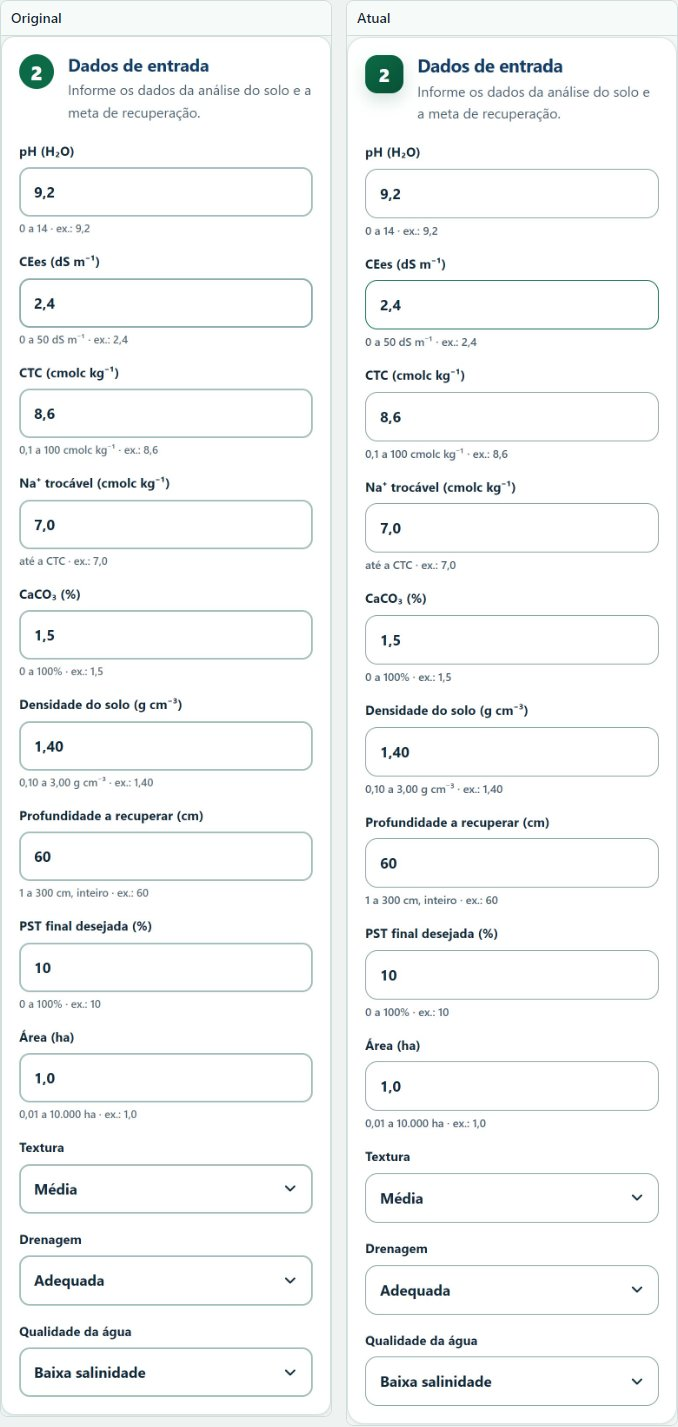
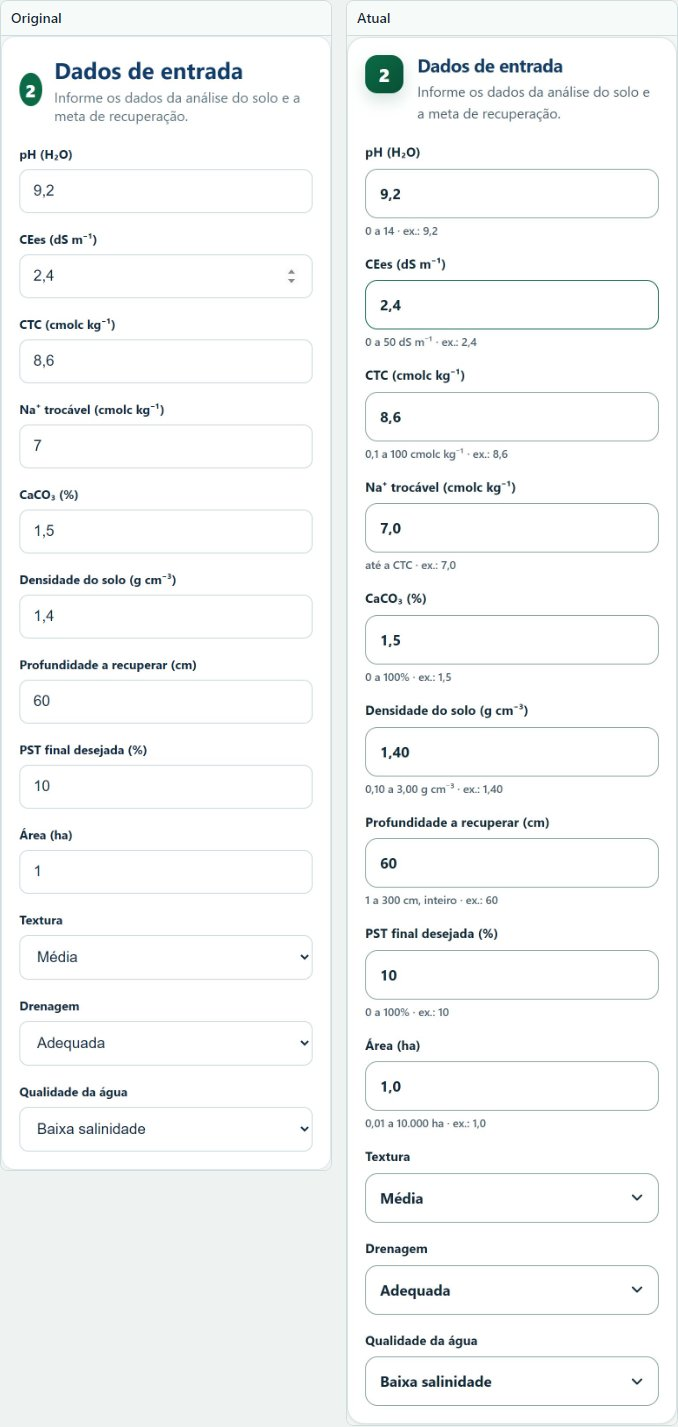
Comparações refeitas contra o site original do Netlify
O original passa a ser preservado em original/. O conteúdo de MODERNIZACAO.md foi incorporado ao COMPARACAO.md.

diff --git a/original/script.js b/original/script.js
@@ -1,0 +1,21 @@
+const amendments=[
+ {name:'Gesso agrícola (CaSO₄·2H₂O)',pe:86,c:1.25,type:'direct',examplePurity:80},
+ {name:'Cloreto de cálcio (CaCl₂·2H₂O)',pe:73,c:1.10,type:'direct'},
+ {name:'Enxofre elementar (S)',pe:16,c:1.25,type:'acid',examplePurity:95},
+ {name:'Ácido sulfúrico (H₂SO₄)',pe:49,c:1.10,type:'acid'},
+ {name:'Sulfato de ferro (FeSO₄·7H₂O)',pe:139,c:1.10,type:'acid'},
+ {name:'Sulfato de alumínio (Al₂(SO₄)₃·18H₂O)',pe:111,c:1.10,type:'acid'},
+ {name:'Calcário (CaCO₃)',pe:50,c:1.25,type:'low'},
+ {name:'Resíduo de engenho',pe:20,c:1.25,type:'low'}
+];
+const $=id=>document.getElementById(id); const num=id=>{const e=$(id); if(!e)return NaN; const v=e.value.trim().replace(',','.');return v===''?NaN:Number(v)};
+const fmt=(x,d=2)=>Number(x).toLocaleString('pt-BR',{minimumFractionDigits:d,maximumFractionDigits:d}); const money=x=>'R$ '+Number(x).toLocaleString('pt-BR',{minimumFractionDigits:2,maximumFractionDigits:2});
+function renderAmendments(){ $('amendGrid').innerHTML=amendments.map((a,i)=>`<article class="amend-card"><div class="amend-head"><input class="amend-check" id="use${i}" type="checkbox"><div><h3>${a.name}</h3><small>PE = ${a.pe} • C = ${String(a.c).replace('.',',')}</small></div></div><div class="two"><label>Pureza (%)<input id="purity${i}" type="number" step="0.1" placeholder="Informe"></label><label>Preço (R$/t)<input id="price${i}" type="number" step="0.01" placeholder="Informe"></label></div></article>`).join(''); }
+renderAmendments();
+function setVal(id,v){$(id).value=v??''} function clearInputs(){['ph','ce','ctc','na','caco3','ds','h','pstf','area'].forEach(id=>setVal(id,'')); ['texture','drain','water'].forEach(id=>$(id).selectedIndex=0); amendments.forEach((a,i)=>{setVal('purity'+i,'');setVal('price'+i,'');$('use'+i).checked=false}); $('results').classList.add('hidden');}
+$('exampleMode').onclick=()=>{clearInputs(); const vals={ph:9.2,ce:2.4,ctc:8.6,na:7,caco3:1.5,ds:1.4,h:60,pstf:10,area:1}; Object.entries(vals).forEach(([k,v])=>setVal(k,v)); $('texture').value='Média';$('drain').value='Adequada';$('water').value='Baixa salinidade'; setVal('purity0',80);setVal('purity2',95);$('use0').checked=true;$('use2').checked=true; $('modeNote').innerHTML='<b>Modo exemplo:</b> dados do exercício carregados. Gesso e enxofre estão selecionados; informe apenas os preços de mercado (R$/t).';};
+$('customMode').onclick=()=>{clearInputs();$('modeNote').innerHTML='<b>Nova análise:</b> informe seus dados e selecione um ou mais corretivos. Pureza e preço são editáveis.';};
+function suitability(a,ph,caco3){ if(a.type==='direct')return{label:'Potencialmente adequado',ok:true,note:'Fornece Ca²⁺ diretamente para substituir Na⁺ no complexo de troca.'}; if(a.type==='acid'){if(caco3>0)return{label:'Adequado com carbonatos',ok:true,note:'A acidez gerada favorece a dissolução de carbonatos e a disponibilização de Ca²⁺.'};return{label:'Uso com cautela',ok:false,note:'Sem carbonatos alcalino-terrosos, requer avaliação específica devido ao risco de acidificação.'};} if(a.type==='low'){if(ph<7.5&&caco3<=0)return{label:'Pode ser considerado',ok:true,note:'Fonte de Ca de baixa solubilidade, mais indicada em condições específicas de pH e ausência de carbonatos.'};return{label:'Baixa prioridade',ok:false,note:'A baixa solubilidade limita sua eficiência nas condições informadas.'};}}
+function validate(){const req=[['ph','pH'],['ce','CEes'],['ctc','CTC'],['na','Na⁺ trocável'],['caco3','CaCO₃'],['ds','densidade'],['h','profundidade'],['pstf','PST final'],['area','área']];for(const [id,n] of req){if(!Number.isFinite(num(id))){alert(`Informe ${n}.`);$(id).focus();return false}} if(num('ctc')<=0||num('ds')<=0||num('h')<=0||num('area')<=0){alert('CTC, densidade, profundidade e área devem ser maiores que zero.');return false} if(num('na')>num('ctc')){alert('O Na⁺ trocável não pode ser maior que a CTC.');return false} if(!amendments.some((a,i)=>$('use'+i).checked)){alert('Selecione pelo menos um corretivo.');return false} return true;}
+$('calc').onclick=()=>{if(!validate())return; const ph=num('ph'),ce=num('ce'),ctc=num('ctc'),na=num('na'),caco3=num('caco3'),ds=num('ds'),h=num('h'),pstf=num('pstf'),area=num('area'); const psti=na/ctc*100,delta=Math.max(0,psti-pstf); const sodic=psti>=15,saline=ce>=4; const cls=sodic?(saline?'salino-sódico':'sódico'):(saline?'salino':'não sódico pelos critérios informados'); $('diagnosis').innerHTML=`<div class="metric"><b>${fmt(psti)}%</b><span>PST inicial calculada</span></div><p><b>Classificação:</b> ${cls}.</p><p><b>Meta:</b> PST ${fmt(pstf)}% na camada de ${fmt(h,0)} cm.</p>`; const out=$('out').querySelector('tbody');out.innerHTML='';let candidates=[]; amendments.forEach((a,i)=>{if(!$('use'+i).checked)return; const purity=num('purity'+i),price=num('price'+i),fit=suitability(a,ph,caco3); const dt=delta*ctc*a.pe*h*ds/100,dp=dt*a.c,dc=Number.isFinite(purity)&&purity>0?dp/(purity/100):NaN,cost=Number.isFinite(dc)&&Number.isFinite(price)&&price>=0?dc/1000*price:NaN,total=Number.isFinite(cost)?cost*area:NaN; if(fit.ok&&Number.isFinite(cost)&&price>0)candidates.push({a,cost,total,dc,fit}); out.insertAdjacentHTML('beforeend',`<tr><td><b>${a.name}</b></td><td class="${fit.ok?'good':'warn'}">${fit.label}</td><td>${fmt(dt)} kg/ha</td><td>${fmt(dp)} kg/ha</td><td>${Number.isFinite(dc)?fmt(dc)+' kg/ha':'Informe pureza'}</td><td>${Number.isFinite(cost)?money(cost):'Informe preço'}</td><td>${Number.isFinite(total)?money(total):'—'}</td></tr>`)}); candidates.sort((a,b)=>a.cost-b.cost);const best=candidates[0]; $('best').innerHTML=best?`<strong>Menor custo entre as alternativas tecnicamente adequadas:</strong> ${best.a.name} — <b>${money(best.cost)}/ha</b> (${money(best.total)} para ${fmt(area)} ha).`:'Informe pureza e preço dos corretivos selecionados para realizar a comparação econômica.'; $('recommendation').innerHTML=amendments.map((a,i)=>$('use'+i).checked?`<p><b>${a.name}:</b> ${suitability(a,ph,caco3).note}</p>`:'').join(''); const chosen=best?.a.name||'o corretivo tecnicamente selecionado'; $('procedure').innerHTML=`<ol><li>Confirmar a análise do solo, profundidade efetiva e condição de drenagem.</li><li>Aplicar <b>${chosen}</b> conforme a dose comercial calculada e a forma tecnicamente recomendada.</li><li>Promover a substituição do Na⁺ trocável por Ca²⁺.</li><li>Realizar lixiviação do Na⁺ deslocado com água adequada.</li><li>Garantir drenagem para retirada da solução salina da zona radicular.</li><li>Monitorar PST, CEes, pH e propriedades físicas do solo.</li></ol>`; $('results').classList.remove('hidden');$('results').scrollIntoView({behavior:'smooth',block:'start'});};
+$('clear').onclick=()=>{clearInputs();$('modeNote').textContent='Nenhum modo selecionado.';window.scrollTo({top:0,behavior:'smooth'});};

diff --git a/original/style.css b/original/style.css
@@ -1,0 +1,2 @@
+:root{--green:#0c6b46;--green2:#16865a;--brown:#9a531e;--navy:#123d68;--ink:#102b3e;--muted:#607483;--line:#dce6e8;--bg:#f5f8f7;--soft:#edf6f1;--warn:#a65b1f}*{box-sizing:border-box}body{margin:0;font-family:Inter,ui-sans-serif,system-ui,-apple-system,"Segoe UI",Arial,sans-serif;background:var(--bg);color:var(--ink)}.topbar{background:#fff;border-bottom:1px solid var(--line);padding:20px clamp(20px,4vw,64px);display:flex;justify-content:space-between;align-items:center;gap:24px}.brand{display:flex;align-items:center;gap:16px}.logo{width:62px;height:62px;border-radius:18px;background:#f1f5ed;display:grid;place-items:center}.logo svg{width:44px;height:44px}.leaf{fill:none;stroke:var(--green2);stroke-width:5;stroke-linecap:round;stroke-linejoin:round}.soil{fill:none;stroke:var(--brown);stroke-width:4;stroke-linecap:round}.brand h1{font-size:clamp(27px,3vw,44px);letter-spacing:.5px;margin:0;color:var(--green);line-height:1}.brand h1 b{color:var(--brown)}.brand p{margin:8px 0 0;font-size:19px;color:#663516}.tag{text-align:right}.tag strong{display:block;font-size:19px}.tag span{display:block;color:var(--muted);margin-top:5px}main{max-width:1500px;margin:30px auto;padding:0 18px}.card{background:#fff;border:1px solid var(--line);border-radius:20px;padding:28px;margin-bottom:24px;box-shadow:0 10px 28px rgba(30,67,61,.05)}.section-title{display:flex;align-items:center;gap:14px;margin-bottom:24px}.section-title>span{width:38px;height:38px;border-radius:50%;display:grid;place-items:center;background:var(--green);color:#fff;font-weight:800;font-size:20px}.section-title h2,.card>h2{margin:0;color:var(--navy);font-size:26px}.section-title p{margin:3px 0 0;color:var(--muted)}.grid{display:grid;grid-template-columns:repeat(4,minmax(180px,1fr));gap:20px}.grid label,.two label{font-weight:700;font-size:14px}input,select{width:100%;margin-top:8px;border:1px solid #cbd9dd;border-radius:10px;padding:14px 15px;background:#fff;font-size:17px;color:var(--ink);outline:none}input:focus,select:focus{border-color:var(--green2);box-shadow:0 0 0 3px rgba(22,134,90,.10)}input::placeholder{color:#9aa8af}.amend-grid{display:grid;grid-template-columns:1fr 1fr;gap:20px}.amend-card{border:1px solid var(--line);border-radius:16px;padding:20px;background:#fbfdfc}.amend-head{display:flex;align-items:center;gap:12px;margin-bottom:18px}.amend-head h3{margin:0;font-size:20px}.amend-head small{color:var(--muted)}.dot{width:14px;height:14px;border-radius:50%}.gypsum{background:#8da3ad}.sulfur{background:#d4a21b}.two{display:grid;grid-template-columns:1fr 1fr;gap:14px}.actions{display:flex;justify-content:flex-end;gap:12px;margin-top:22px}button{border:0;border-radius:11px;background:var(--green);color:#fff;padding:14px 22px;font-size:16px;font-weight:800;cursor:pointer}button:hover{background:#095b3c}.secondary{background:#eef3f2;color:var(--ink)}.secondary:hover{background:#e1e9e7}.results.hidden{display:none}.result-grid{display:grid;grid-template-columns:1fr 1fr;gap:20px}.result-box{background:#f8fbfa;border:1px solid var(--line);border-radius:15px;padding:20px}.result-box h3{margin-top:0;color:var(--navy)}.metric{display:flex;align-items:baseline;gap:12px;margin-bottom:14px}.metric b{font-size:36px;color:var(--green)}.metric span{color:var(--muted)}.tablewrap{overflow:auto;margin-top:18px}table{width:100%;border-collapse:collapse;min-width:980px}th,td{padding:13px 12px;border-bottom:1px solid var(--line);text-align:left;font-size:14px}th{background:#f0f5f5;color:var(--navy)}.good{color:var(--green);font-weight:800}.warn{color:var(--warn);font-weight:800}.best{margin-top:18px;background:#edf8ef;border:1px solid #b9dfc1;border-radius:12px;padding:16px;color:#174f2a}ol{line-height:1.7;padding-left:24px}footer{text-align:center;padding:26px;color:#6e7e86;font-size:13px}@media(max-width:950px){.grid{grid-template-columns:repeat(2,1fr)}.amend-grid,.result-grid{grid-template-columns:1fr}.tag{display:none}}@media(max-width:560px){.topbar{padding:16px}.logo{width:52px;height:52px}.brand h1{font-size:25px}.brand p{font-size:15px}.grid{grid-template-columns:1fr}.card{padding:20px;border-radius:16px}.two{grid-template-columns:1fr}.actions{flex-direction:column-reverse}button{width:100%}}
+.mode-actions{display:flex;gap:14px;flex-wrap:wrap;margin:6px 0 14px}.mode-note{padding:14px 16px;border-radius:12px;background:#f3f7f5;color:#425b53}.amend-grid.all{grid-template-columns:repeat(2,minmax(0,1fr))}.amend-check{width:22px;height:22px;accent-color:#0b7753;flex:0 0 auto}@media(max-width:900px){.amend-grid.all{grid-template-columns:1fr}}

diff --git a/original/index.html b/original/index.html
@@ -1,0 +1,9 @@
+<!doctype html><html lang="pt-BR"><head><meta charset="utf-8"><meta name="viewport" content="width=device-width,initial-scale=1"><title>RECUPERA-SOLO | Recuperação de solos sódicos</title><link rel="stylesheet" href="style.css"></head><body>
+<header class="topbar"><div class="brand"><div class="logo"><svg viewBox="0 0 64 64"><path d="M32 8c-10 3-16 10-16 19 8 0 14-3 18-10 1 7-1 13-6 18" class="leaf"/><path d="M12 40c8-5 16-5 24 0s16 5 20 0M12 49c8-5 16-5 24 0s16 5 20 0" class="soil"/></svg></div><div><h1>RECUPERA-<b>SOLO</b></h1><p>Recuperação de solos sódicos</p></div></div><div class="tag"><strong>Sistema de apoio à decisão</strong><span>Diagnóstico • Corretivos • Dose • Custos • Manejo</span></div></header>
+<main>
+<section class="card mode-card"><div class="section-title"><span>1</span><div><h2>Escolha como iniciar</h2><p>Use o exercício demonstrativo ou faça uma nova análise com seus próprios dados.</p></div></div><div class="mode-actions"><button id="exampleMode">Usar exemplo</button><button id="customMode" class="secondary">Nova análise</button></div><div id="modeNote" class="mode-note">Nenhum modo selecionado.</div></section>
+<section class="card"><div class="section-title"><span>2</span><div><h2>Dados de entrada</h2><p>Informe os dados da análise do solo e a meta de recuperação.</p></div></div><div class="grid">
+<label>pH (H₂O)<input id="ph" type="number" step="0.1" placeholder="Ex.: 9,2"></label><label>CEes (dS m⁻¹)<input id="ce" type="number" step="0.1" placeholder="Ex.: 2,4"></label><label>CTC (cmolc kg⁻¹)<input id="ctc" type="number" step="0.1" placeholder="Ex.: 8,6"></label><label>Na⁺ trocável (cmolc kg⁻¹)<input id="na" type="number" step="0.1" placeholder="Ex.: 7,0"></label><label>CaCO₃ (%)<input id="caco3" type="number" step="0.1" placeholder="Ex.: 1,5"></label><label>Densidade do solo (g cm⁻³)<input id="ds" type="number" step="0.01" placeholder="Ex.: 1,40"></label><label>Profundidade a recuperar (cm)<input id="h" type="number" step="1" placeholder="Ex.: 60"></label><label>PST final desejada (%)<input id="pstf" type="number" step="0.1" placeholder="Ex.: 10"></label><label>Área (ha)<input id="area" type="number" step="0.01" placeholder="Ex.: 1,0"></label><label>Textura<select id="texture"><option value="">Selecione</option><option>Arenosa</option><option>Média</option><option>Argilosa</option></select></label><label>Drenagem<select id="drain"><option value="">Selecione</option><option>Adequada</option><option>Deficiente</option><option>Inexistente</option></select></label><label>Qualidade da água<select id="water"><option value="">Selecione</option><option>Baixa salinidade</option><option>Moderada salinidade</option><option>Alta salinidade</option></select></label></div></section>
+<section class="card"><div class="section-title"><span>3</span><div><h2>Corretivos e custos</h2><p>Selecione os corretivos que deseja avaliar. PE e coeficiente C já estão cadastrados no sistema.</p></div></div><div id="amendGrid" class="amend-grid all"></div><div class="actions"><button id="clear" class="secondary">Limpar</button><button id="calc">Gerar diagnóstico e recomendação</button></div></section>
+<section id="results" class="results hidden"><section class="card"><div class="section-title"><span>4</span><div><h2>Resultados integrados</h2><p>Diagnóstico → corretivos tecnicamente adequados → dose, custo e procedimento.</p></div></div><div class="result-grid"><article class="result-box"><h3>Diagnóstico do solo</h3><div id="diagnosis"></div></article><article class="result-box"><h3>Recomendação técnica</h3><div id="recommendation"></div></article></div></section><section class="card"><h2>Dose e custo</h2><div class="tablewrap"><table id="out"><thead><tr><th>Corretivo</th><th>Adequação</th><th>Dose teórica</th><th>Dose prática</th><th>Dose comercial</th><th>Custo/ha</th><th>Custo total</th></tr></thead><tbody></tbody></table></div><div id="best" class="best"></div></section><section class="card"><h2>Procedimento de recuperação</h2><div id="procedure"></div></section></section>
+</main><footer>RECUPERA-SOLO • Sistema de apoio à decisão para recuperação de solos sódicos</footer><script src="script.js"></script></body></html>

diff --git a/testes/comparacoes.js b/testes/comparacoes.js
@@ -12,9 +12,7 @@ import { chromium } from '@playwright/test';
 const raiz = path.resolve(path.dirname(fileURLToPath(import.meta.url)), '..');
 const pasta = path.join(raiz, 'imagens');
 const temporaria = fs.mkdtempSync(path.join(os.tmpdir(), 'recupera-prints-'));
-const original = pathToFileURL(
-  path.join(process.env.TEMP || os.tmpdir(), 'opencode', 'original_site', 'index.html')
-).href;
+const original = pathToFileURL(path.join(raiz, 'original', 'index.html')).href;
 const atual = pathToFileURL(path.join(raiz, 'index.html')).href;
 
 const TELAS = [

diff --git a/COMPARACAO.md b/COMPARACAO.md
@@ -1,5 +1,9 @@
 # Original e atual
 
+Comparação com o site que estava no Netlify, preservado em
+[`original/`](original/). Essa é a referência fixa: `npm run prints` refaz as
+capturas sempre contra ela.
+
 ## Lighthouse
 
 | Verificação | Original | Atual |
@@ -27,7 +31,7 @@ e seguia para o cálculo.
 
 ![Celular](imagens/comparacao-celular.jpg)
 
-## Mudanças
+## Comportamento
 
 | Item | Original | Atual |
 |---|---|---|
@@ -40,11 +44,35 @@ e seguia para o cálculo.
 | Faixas | parciais | todos os campos |
 | Erro | genérico | campo, faixa e correção |
 | Dicas | ausentes | faixa e exemplo por campo |
-| Altura do campo | 46 px | 56 px |
-| Borda | 1 px clara | 1,5 px escura |
-| Foco | 3 px | 4 px |
 | Exemplo | ponto decimal | vírgula |
-| Tabela | linhas finas | linhas firmes e cabeçalho destacado |
+
+## Aparência
+
+| Item | Original | Atual |
+|---|---|---|
+| Cabeçalho | alto | compacto, 94 px no computador e 129 px no celular |
+| Paleta | cores soltas | tokens semânticos |
+| Superfícies | raio de 16 px | raio de 20 px, borda de 1 px e sombra leve |
+| Campos | 46 px | 56 px, raio de 14 px e anel de foco de 4 px |
+| Botões | padding de 13 px | 48 px de altura mínima e raio de 12 px |
+| Tabela | linhas finas | cabeçalho em caixa alta e cartões abaixo de 620 px |
+
+Paleta atual: fundo `#f3f7f5`, superfície `#ffffff`, texto `#102a3a`, verde
+`#0c6b46`, ocre `#9a531e`, azul dos títulos `#123d68`, linha `#d6e2e1`.
+
+## Acessibilidade
+
+- Foco visível em todos os elementos interativos.
+- Contraste reforçado por `prefers-contrast: more`.
+- Movimento reduzido por `prefers-reduced-motion`.
+- Alvos de toque de 44 px nos botões.
+- Impressão sempre em cores claras.
+
+## Verificação
+
+- 15 testes de unidade e 50 testes de navegador aprovados.
+- Capturas em `imagens/`, refeitas contra `original/`.
+- APK em `apk/dist`, com cópia idêntica em `apk/RECUPERA-SOLO.apk`.
 
 ## Preservado
 

diff --git a/README.md b/README.md
@@ -80,8 +80,8 @@ No exemplo: gesso R$ 29.454,73/ha e enxofre R$ 67.320,25/ha.
 
 ## Modernização
 
-Paleta em tokens, superfícies, tipografia revisada e cabeçalho compacto. O
-registro está em [MODERNIZACAO.md](MODERNIZACAO.md).
+Paleta em tokens, superfícies, tipografia revisada e cabeçalho compacto. As
+mudanças estão em [COMPARACAO.md](COMPARACAO.md).
 
 `apk/gerar_apk.cmd` grava o APK em `apk/dist` e copia para
 `apk/RECUPERA-SOLO.apk`.

diff --git a/original/README.md b/original/README.md
@@ -1,0 +1,8 @@
+# Original
+
+Cópia do site publicado em <https://dapper-flan-955869.netlify.app/>, obtida em
+23 de outubro de 2026.
+
+É a referência de `testes/comparacoes.js` para as comparações de
+[COMPARACAO.md](../COMPARACAO.md). Arquivos preservados sem alteração:
+`index.html`, `style.css` e `script.js`.
